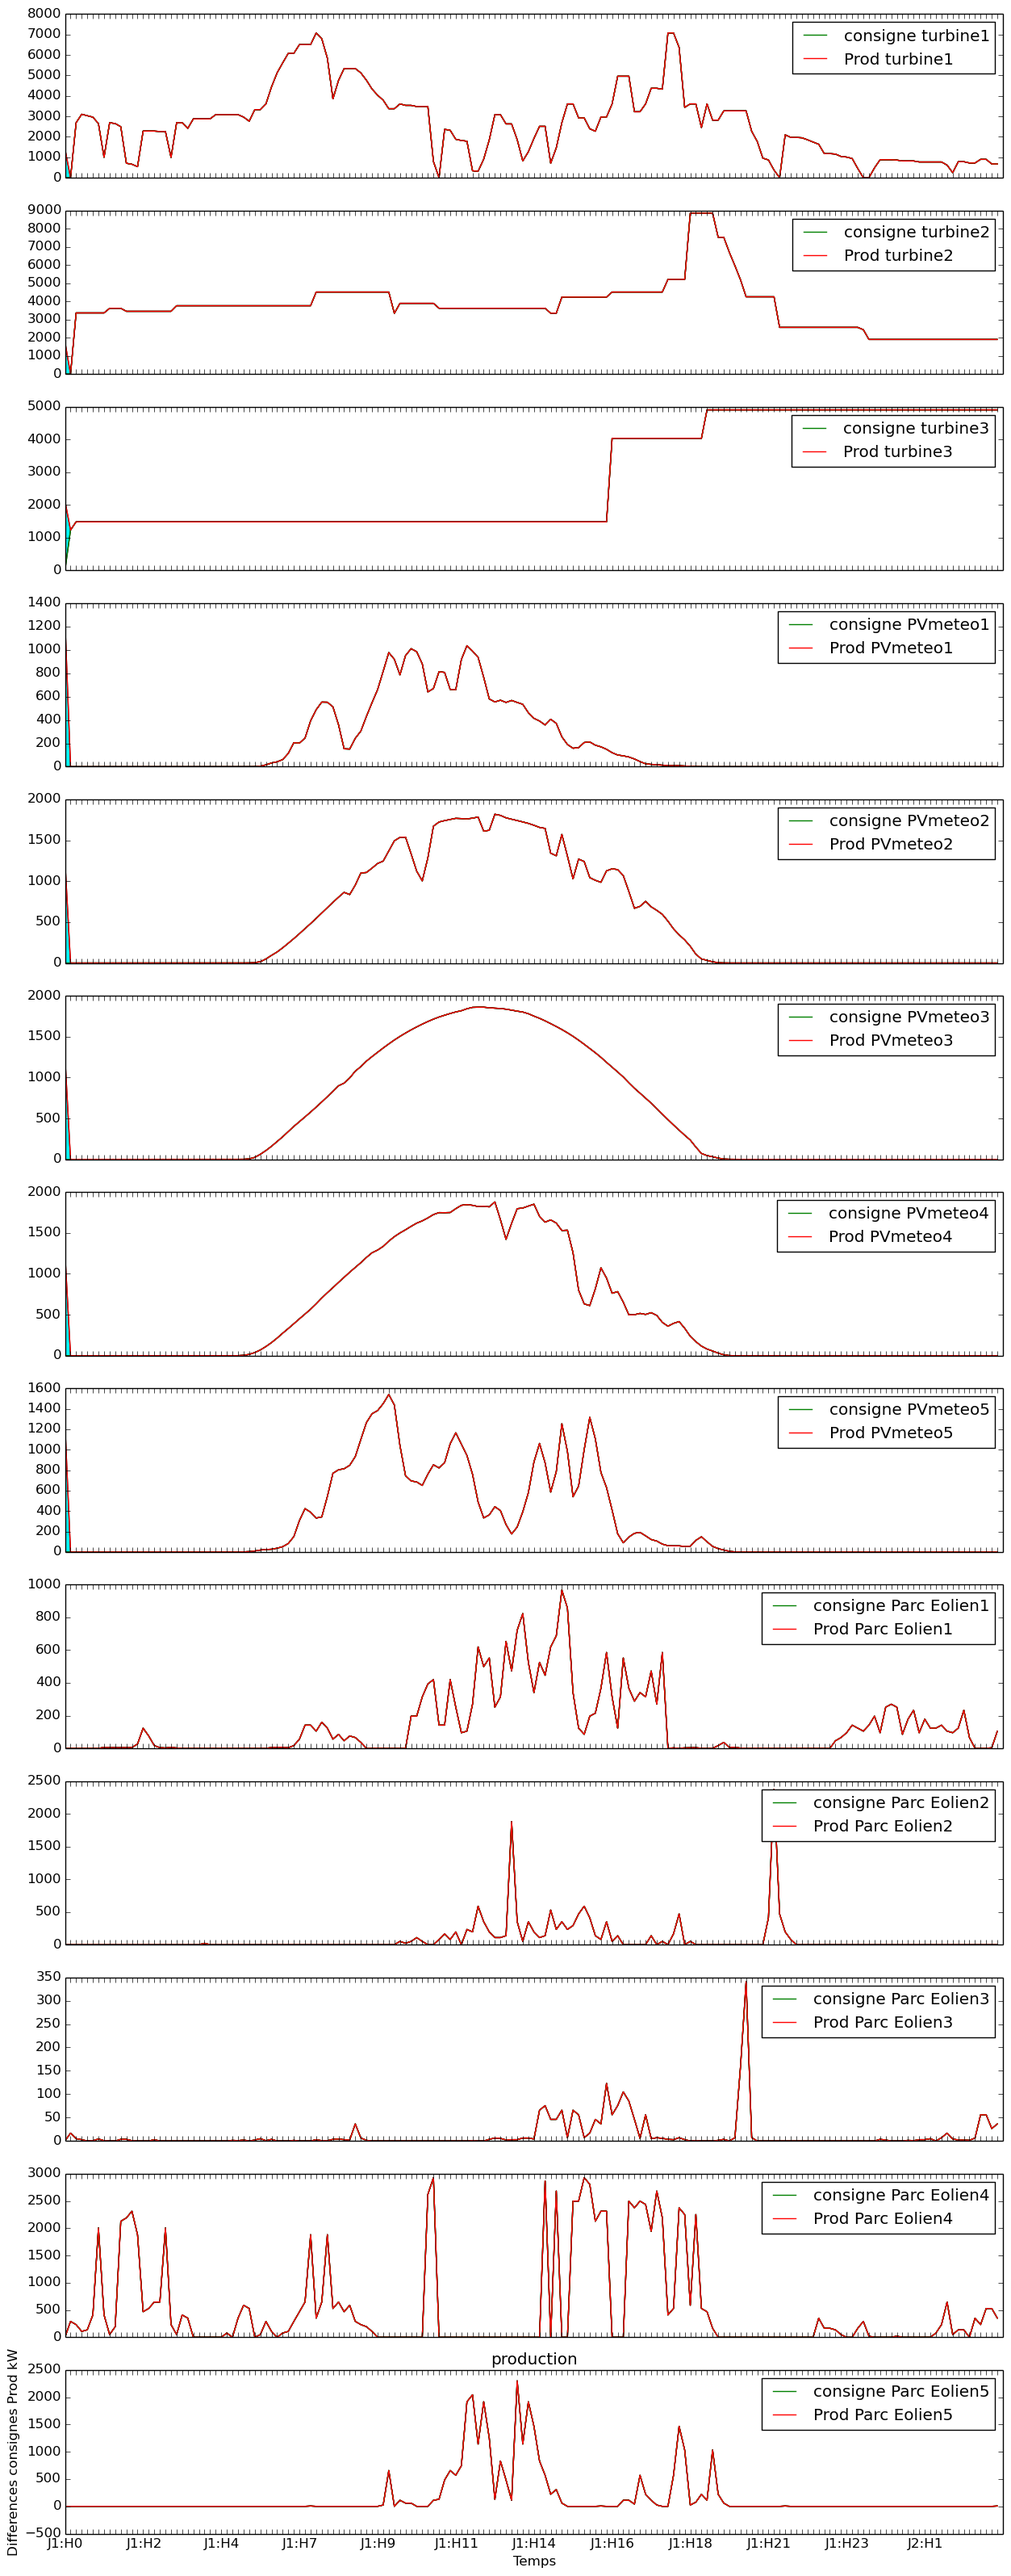
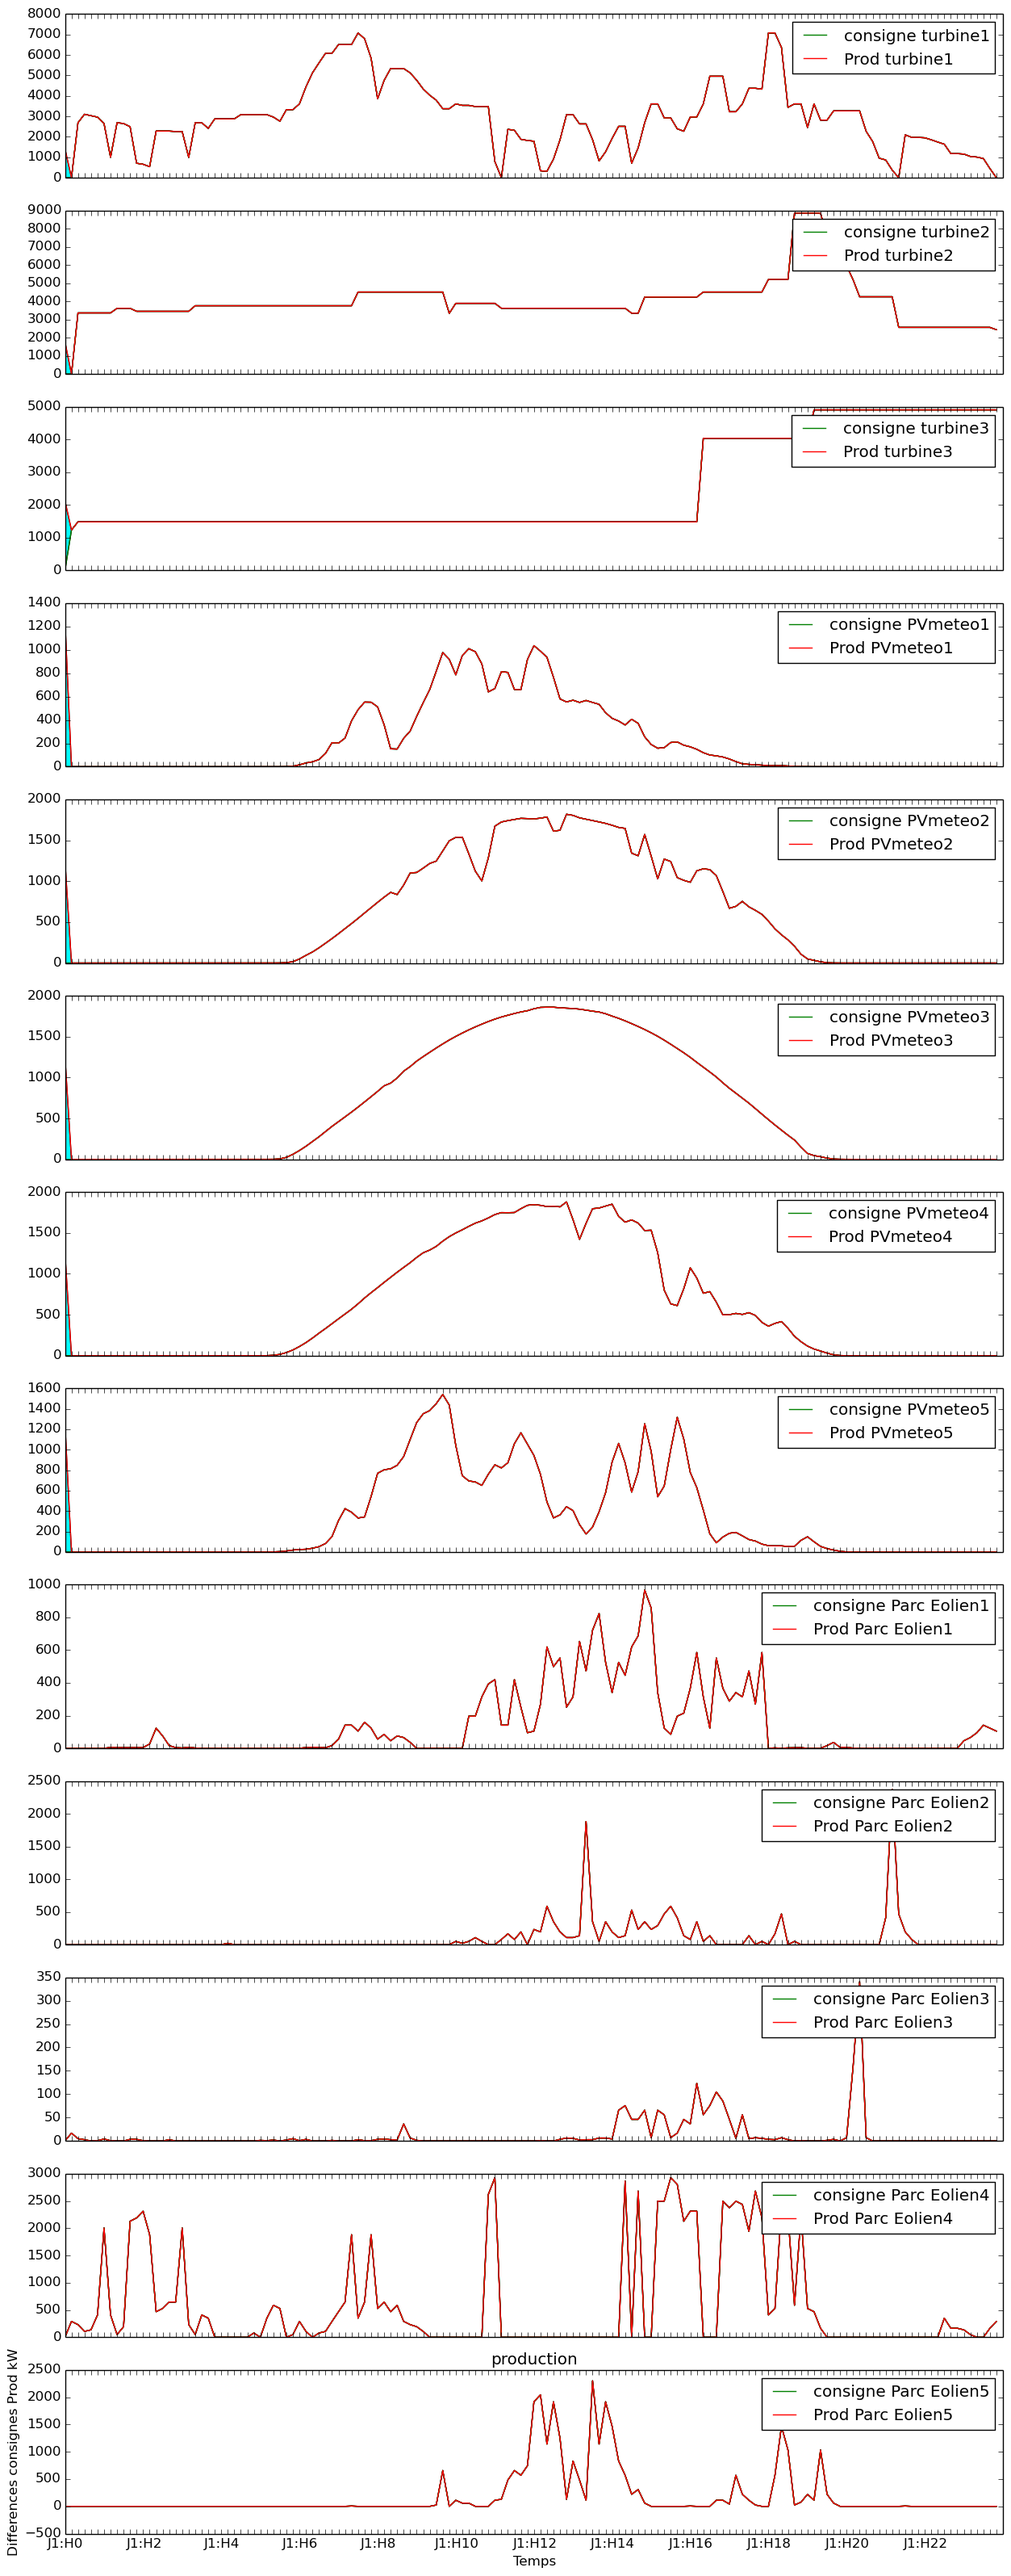
Le monde des morts nous connûmes

diff --git a/Equipement/ParcMaison.py b/Equipement/ParcMaison.py
@@ -24,7 +24,7 @@ class ParcMaison (Utilitaire) :
         self.production=[]
         for i in range(0,721):
             self.production.append(50.*(1.+cos(pi/144.*(i+30.))*cos(3.*(pi/144.*(i+30.))))) #pourcentage qui multiplié par self.PROD_MAX (<0) donne la production (<0)
-        for i in range(721,1008):
+        for i in range(721,1009):
             self.production.append(40.*(1.5+cos(pi/72.*(i-792.))))
         self.etatSuivant() #initialisation de la variable activite selon le moment de la journée ; effacement nul par défaut
     

diff --git a/Ville.py b/Ville.py
@@ -18,7 +18,7 @@ from Utilitaire.Global import meteoTest
 class Ville:
 
 	def __init__(self):
-		self.equipProduction = [ParcTurbineAGaz("turbine1",varcout=0.,nombre=8),\
+		self.equipProduction = [ParcTurbineAGaz("turbine1",varcout=1.,nombre=8),\
  		                        ParcTurbineAGaz("turbine2",varcout=1.10,nombre=10),\
  		                        ParcTurbineAGaz("turbine3",varcout=5.13,nombre=12),\
   		                        ParcSolaire(nom="PVmeteo1",prod=250.,activite=50.,nb=10.,meteo=meteo1),\

diff --git a/analyseur.py b/analyseur.py
@@ -60,6 +60,7 @@ print len(etat)
 print len(consigne)
 
 #on a besoin de séparer les consos/prods/stocks
+Global.temps=0
 ville=Ville()
 
 abscissea=list(range(len(etat)))
